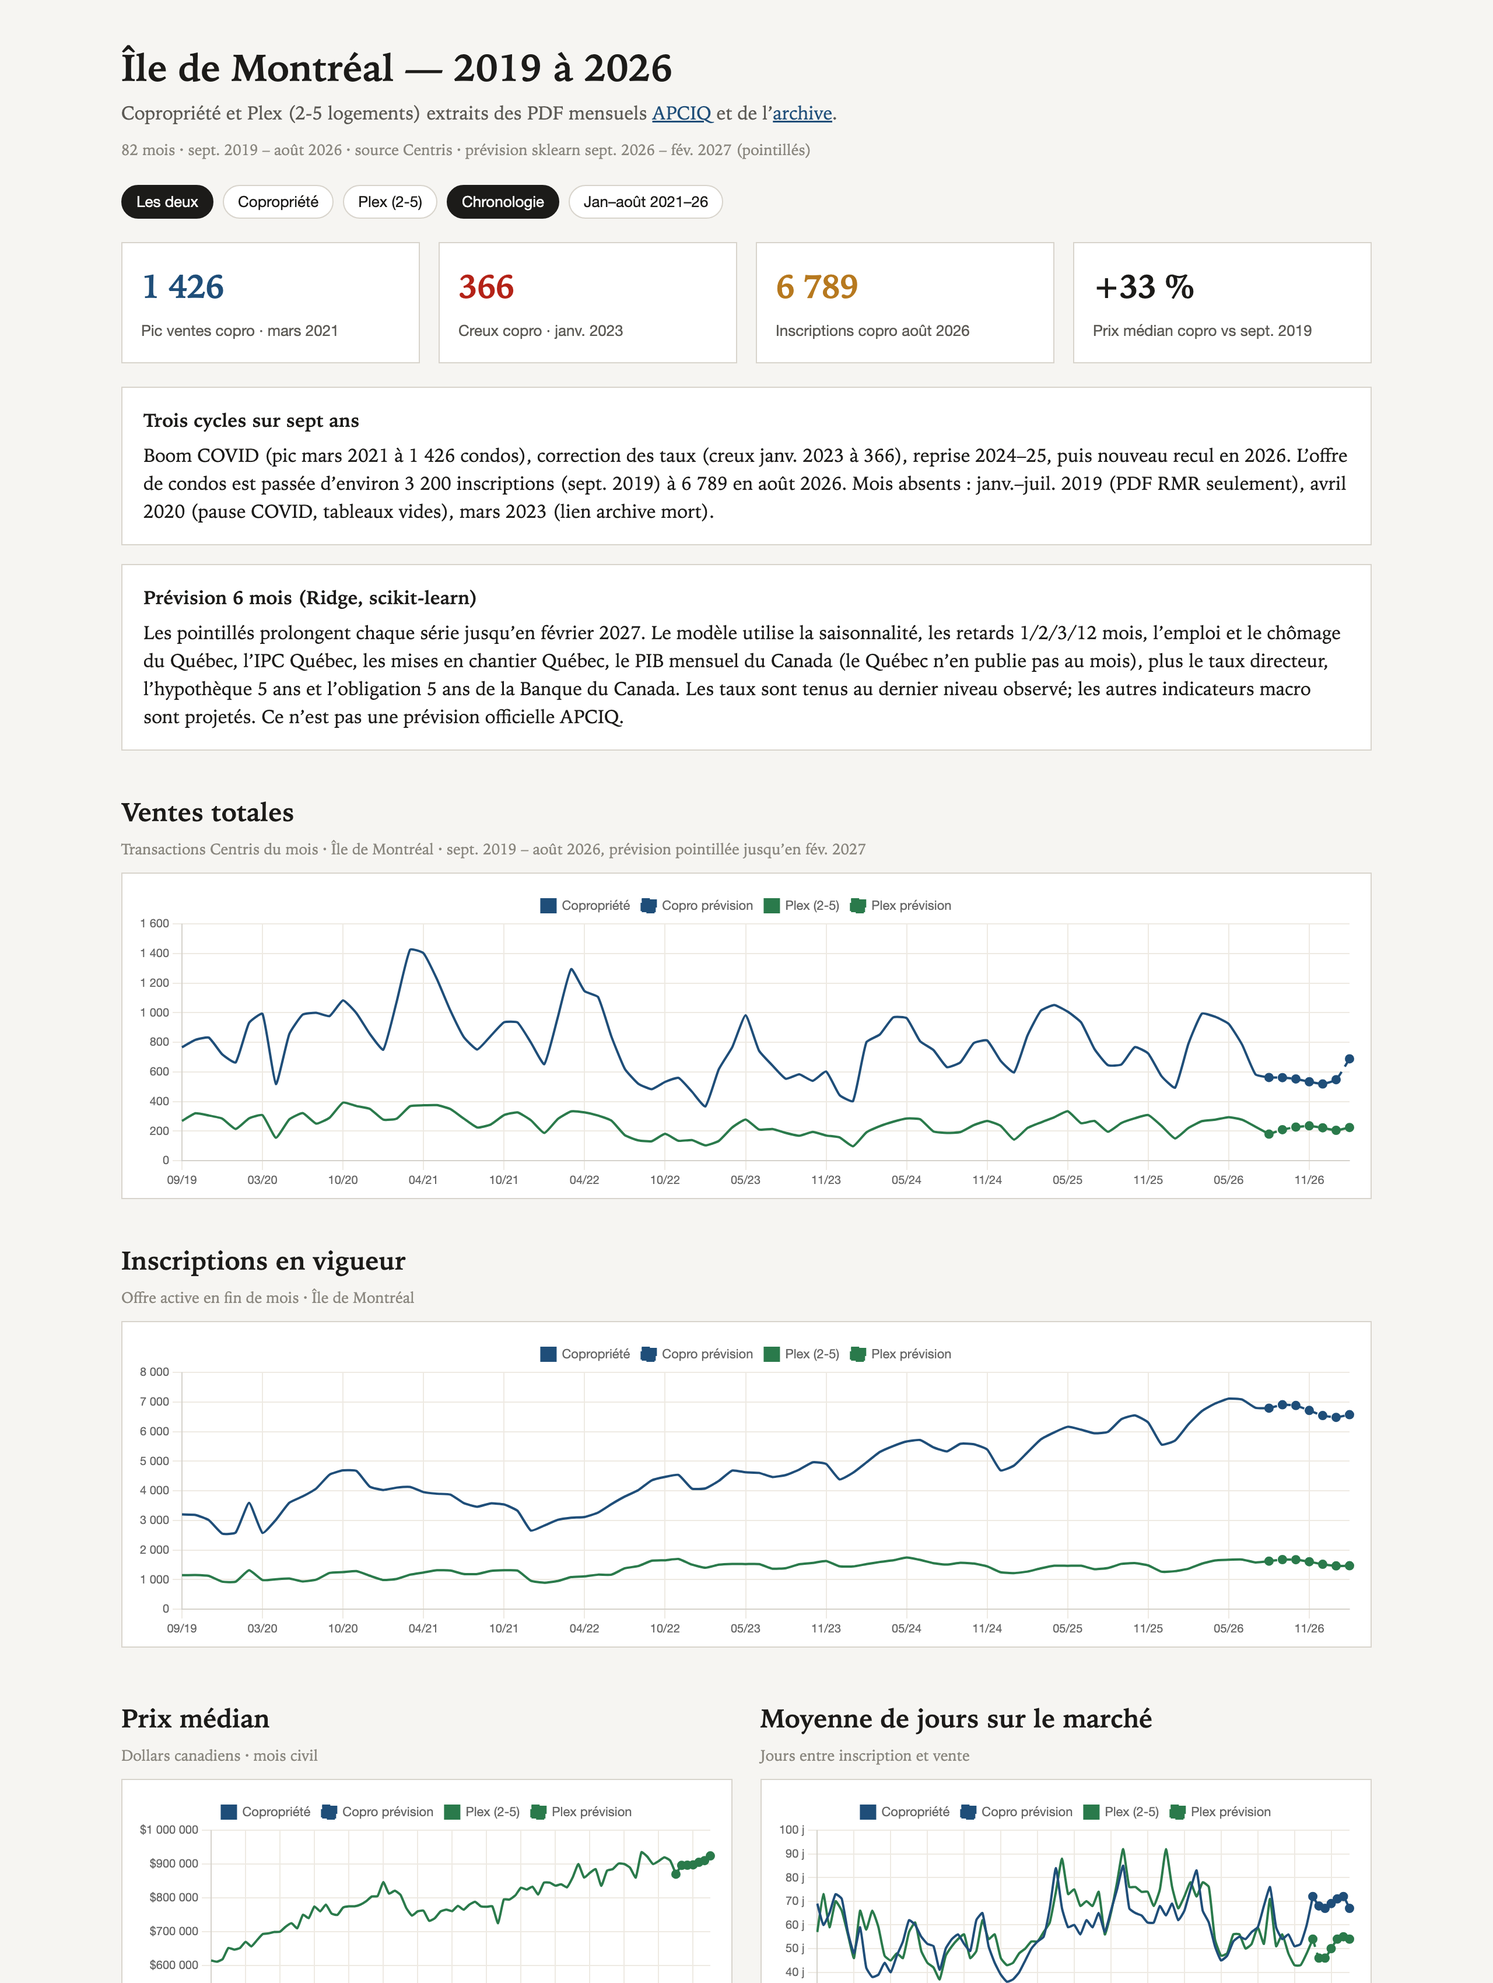
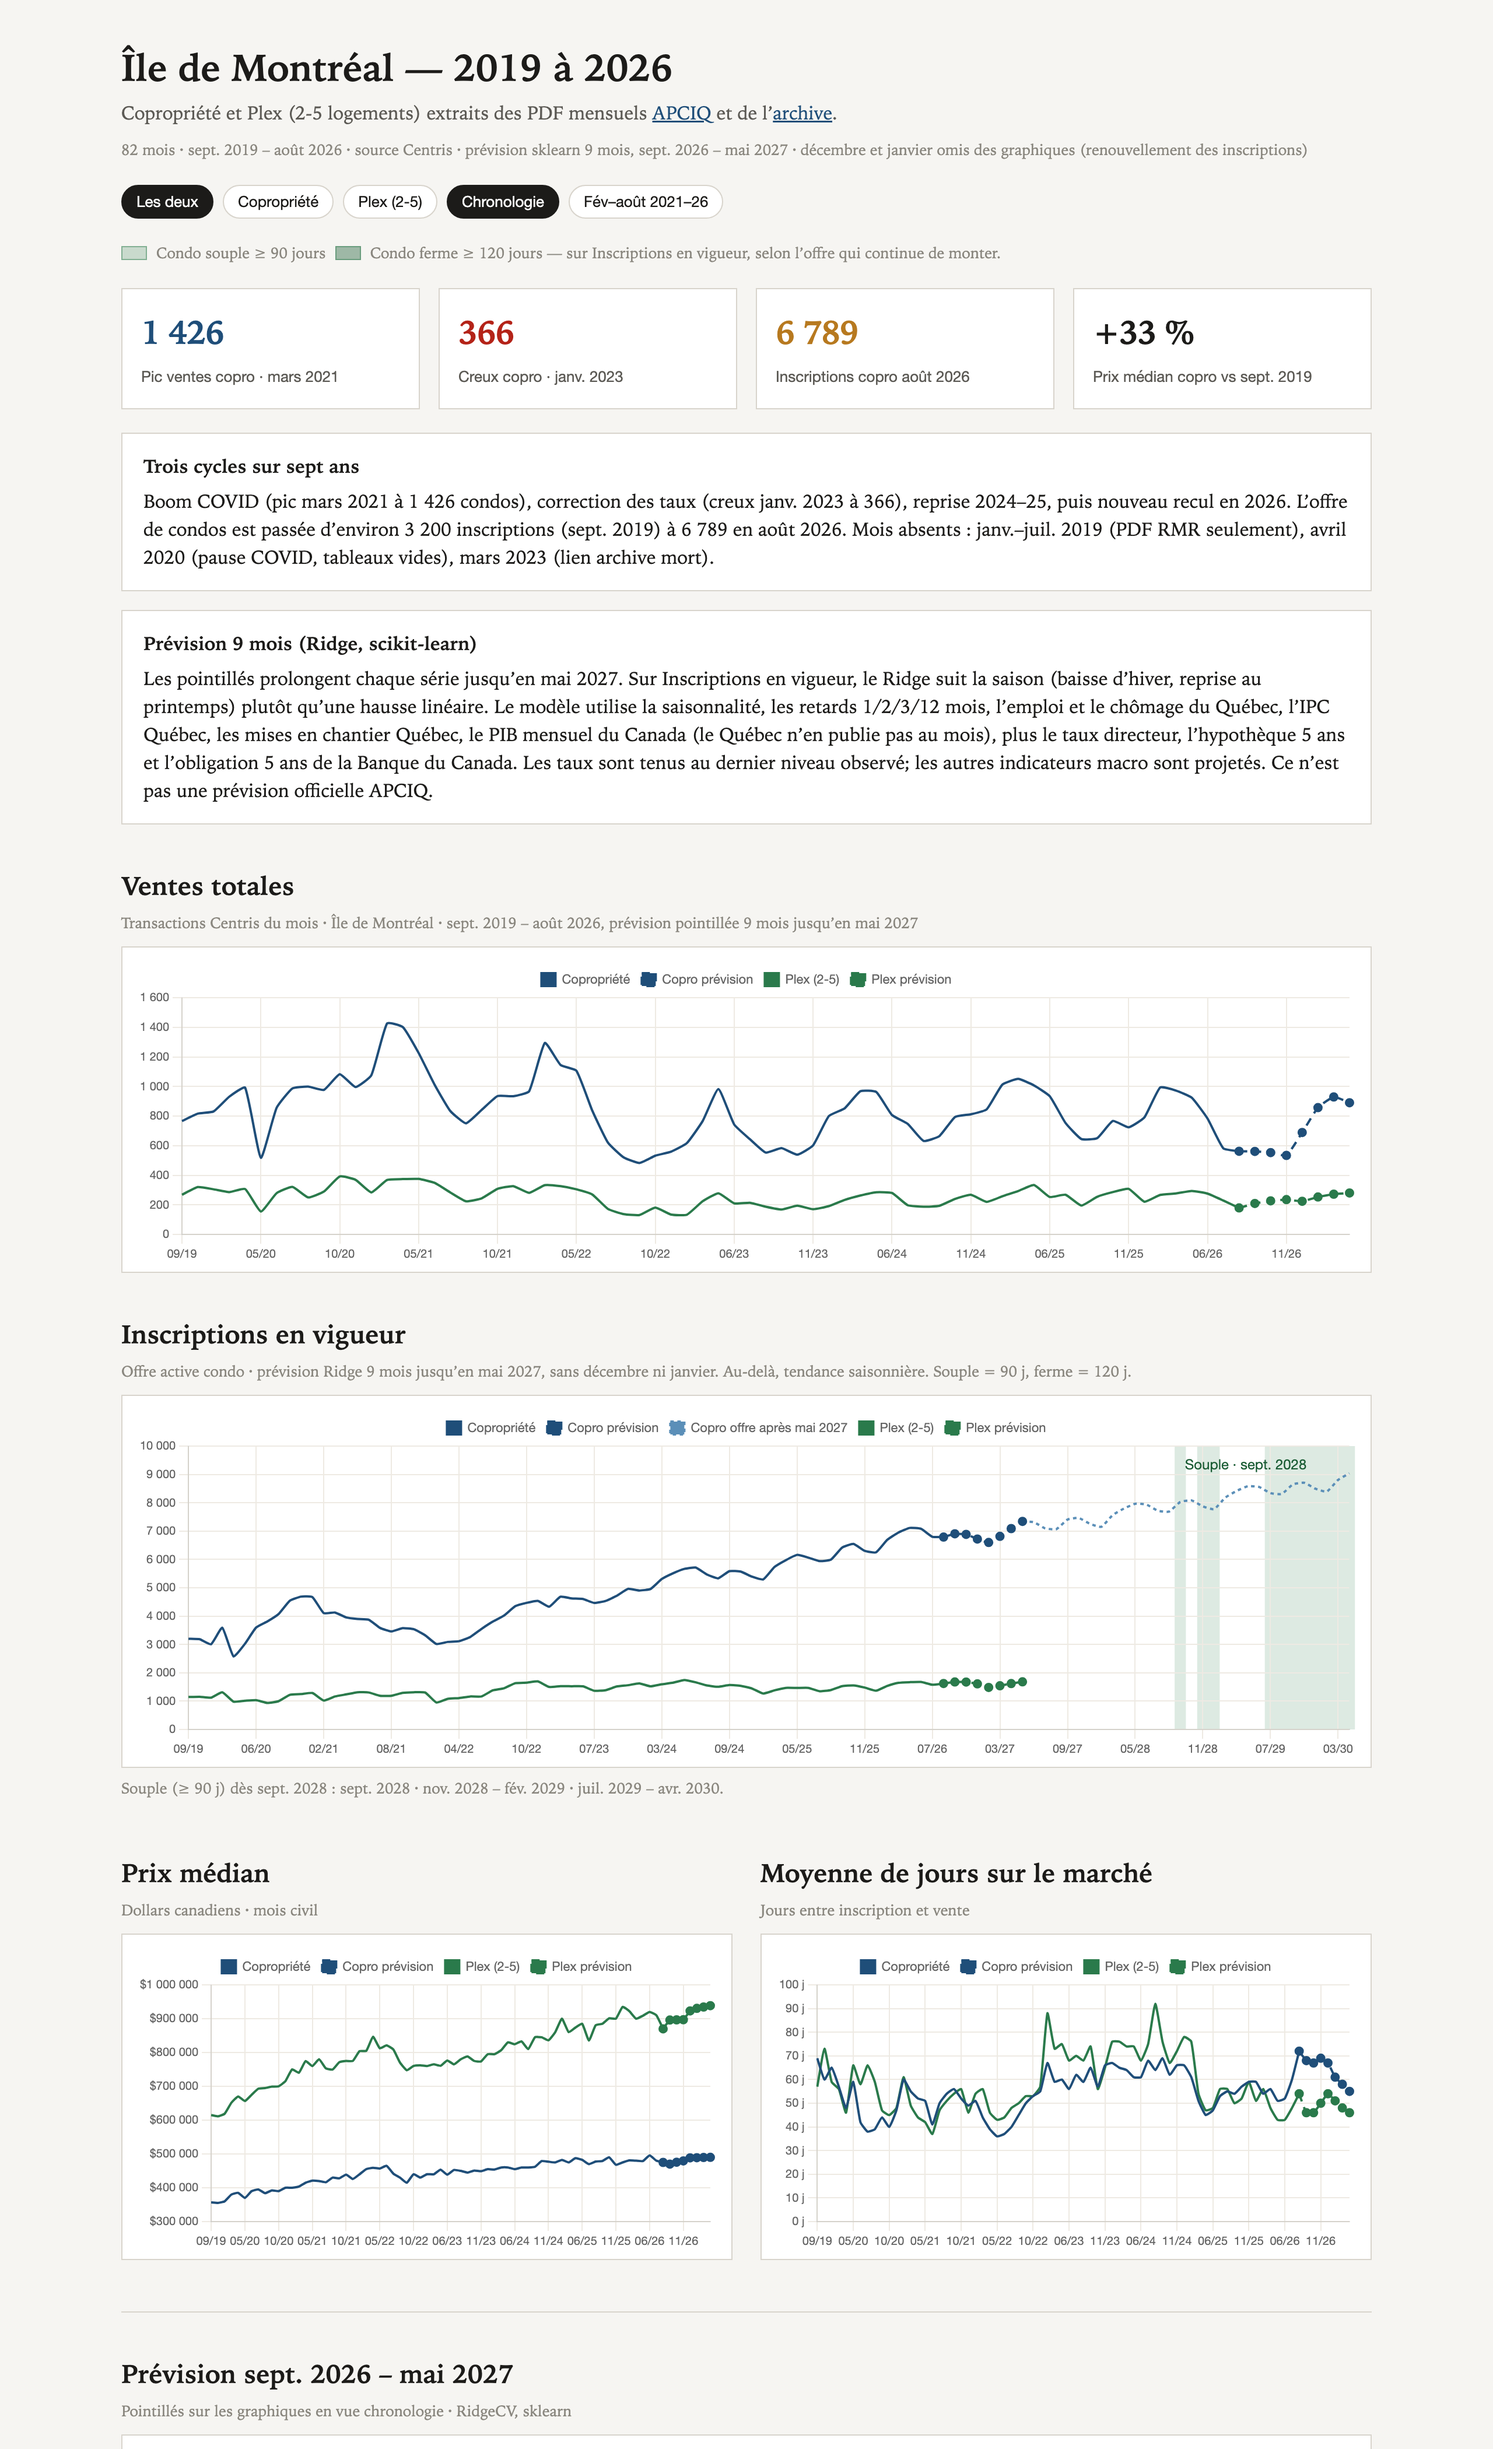
Update Île de Montréal report to include new filters and extend chronology charts with a 9-month Ridge forecast. Add chart conventions for clarity on data interpretation and adjust script command for forecast horizon.

diff --git a/README.md b/README.md
@@ -8,7 +8,14 @@ Four series: ventes totales, inscriptions en vigueur, prix médian, moyenne de j
 
 Open the report: [ile-montreal.html](https://poboisvert.github.io/apicq/ile-montreal.html)
 
-The chronology charts extend nine months with a dotted sklearn forecast (septembre 2026 – mai 2027), using Québec employment, unemployment, CPI and housing starts, Canada monthly GDP, and Bank of Canada rates.
+Filters: Les deux / Copropriété / Plex, and Chronologie / Fév–août. Chronology charts carry a dotted sklearn forecast through mai 2027 (Québec employment, unemployment, CPI and housing starts, Canada monthly GDP, Bank of Canada rates).
+
+## Chart conventions
+
+- **Décembre and janvier are omitted** from every chart and from the forecast table. Listings expire at year-end and are renewed in February, so those months look like a crash. They stay in the monthly PDF table. Lines connect novembre → février.
+- Dotted lines are the 9-month Ridge forecast (septembre 2026 – mai 2027).
+- On **Inscriptions en vigueur**, green buy zones apply to condos only: souple ≥ 90 estimated days, ferme ≥ 120. After mai 2027 the inventory path is seasonal, not Ridge.
+- Condo median price 357k → 475k is **+33 %**, not a doubling.
 
 ## Coverage
 
@@ -46,7 +53,7 @@ python scripts/fetch_monthly_stats.py --years 2024 2025 2026
 Refresh the 9-month forecast (needs network for StatCan and the Bank of Canada):
 
 ```bash
-python scripts/forecast_six_months.py
+python scripts/forecast_six_months.py --horizon 9
 ```
 
 Outputs:
